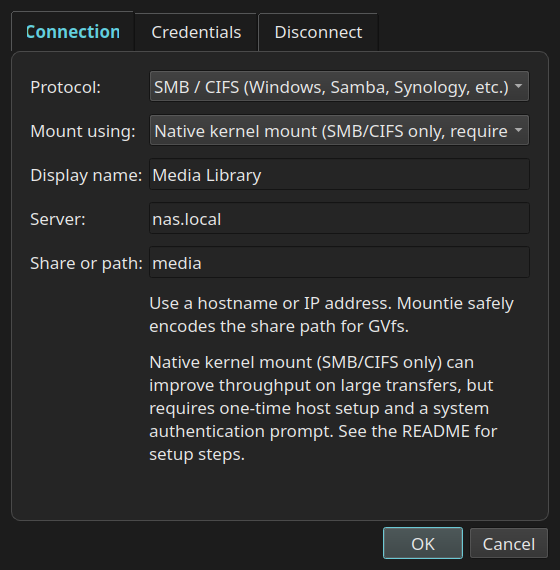
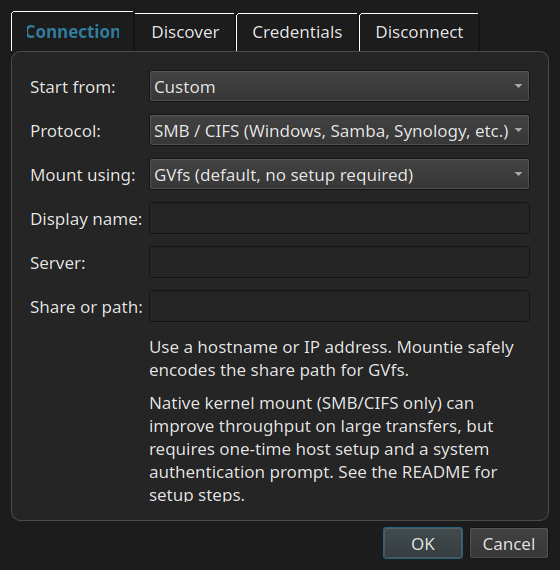
Release Mountie 0.4.7
Fix the Add button's "+" icon/text getting clipped by its own dropdown-menu
indicator - a custom stylesheet on a QPushButton stops Qt from
automatically reserving space for the arrow it draws, so the button now
carries explicit right padding and an explicit menu-indicator position.

Also refreshes the README/AppStream screenshots, which were still showing
the pre-template Add Share dialog and the old "Network Shares" header; they
now reflect the current UI (Start-from templates, the Discover tab, native
mount, and ISO images) using fake, clearly non-real demo data.

diff --git a/mountie/app/visuals.py b/mountie/app/visuals.py
@@ -158,8 +158,16 @@ QPushButton#primaryButton {
     color: palette(highlighted-text);
     border: none;
     border-radius: 8px;
-    padding: 7px 16px;
+    /* Extra right padding: this button carries a dropdown menu (Network
+       Share / ISO Image), and a custom stylesheet stops Qt from
+       automatically reserving space for the menu-indicator arrow it draws
+       over the button - without this the text gets clipped by the arrow. */
+    padding: 7px 28px 7px 16px;
     font-weight: 600;
+}
+QPushButton#primaryButton::menu-indicator {
+    subcontrol-position: right center;
+    right: 10px;
 }
 QPushButton#primaryButton:hover {
     background: palette(highlight);

diff --git a/mountie/__init__.py b/mountie/__init__.py
@@ -1,3 +1,3 @@
 """Mountie: a small GUI for mounting and managing network shares."""
 
-__version__ = "0.4.6"
+__version__ = "0.4.7"
